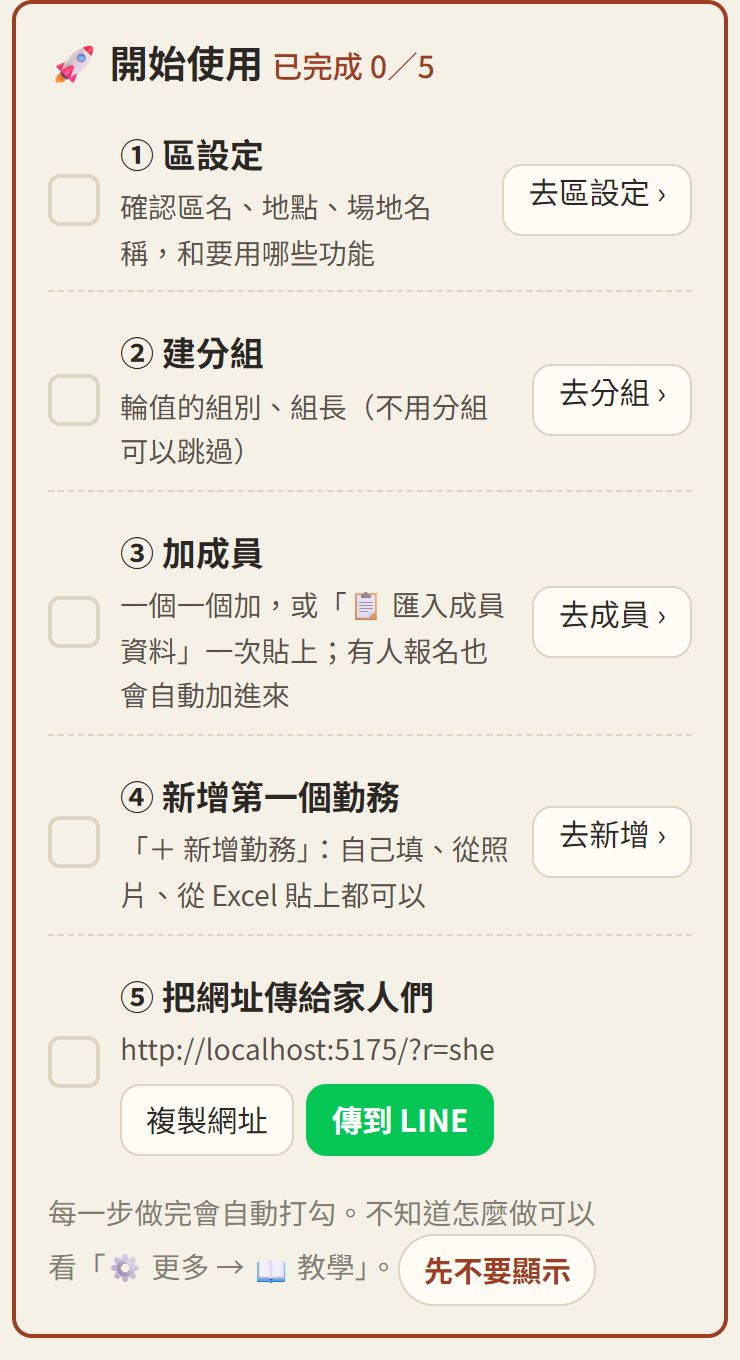
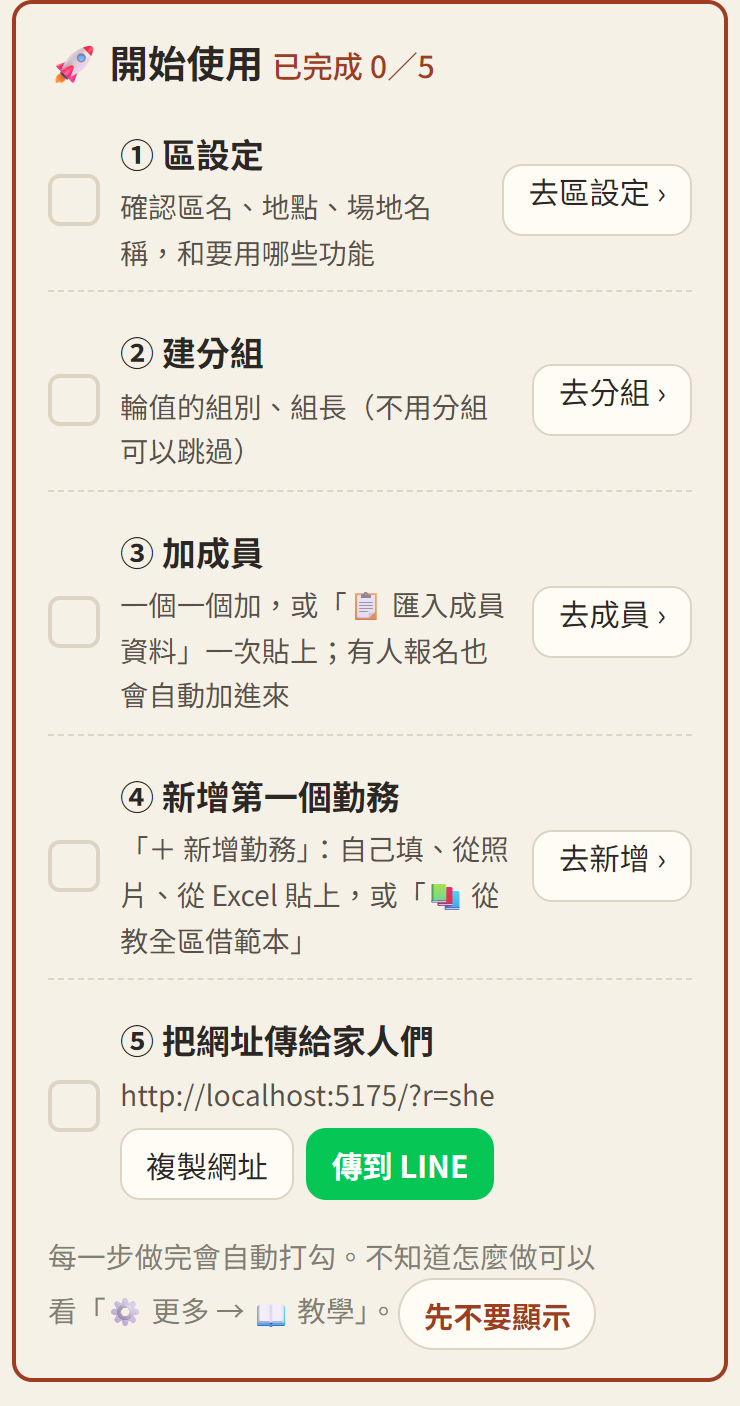
其他區新增勤務可以「從教全區借範本」

diff --git a/index.html b/index.html
@@ -23,7 +23,7 @@
   <link rel="preconnect" href="https://fonts.googleapis.com">
   <link rel="preconnect" href="https://fonts.gstatic.com" crossorigin>
   <link href="https://fonts.googleapis.com/css2?family=Noto+Sans+TC:wght@400;500;700&family=Noto+Serif+TC:wght@600;700&display=swap" rel="stylesheet">
-  <link rel="stylesheet" href="css/app.css?v=20261121p">
+  <link rel="stylesheet" href="css/app.css?v=20261121q">
   <script>try { var t = localStorage.getItem('duty-calendar:text-size'); if (t === 'l' || t === 'xl') document.documentElement.classList.add('text-' + t); } catch (e) {}</script>
 </head>
 <body class="splash-on">
@@ -118,63 +118,63 @@
   <script src="https://cdn.jsdelivr.net/npm/fullcalendar@6.1.21/index.global.min.js"></script>
   <script src="https://cdn.jsdelivr.net/npm/@fullcalendar/core@6.1.21/locales/zh-tw.global.min.js"></script>
   <!-- 改了 js、css 後把 ?v= 的日期換新，手機才不會用到舊的檔案（GitHub Pages 會快取 10 分鐘） -->
-  <script src="js/site.js?v=20261121p"></script>
-  <script src="js/region.js?v=20261121p"></script>
-  <script src="js/config.js?v=20261121p"></script>
-  <script src="js/api.js?v=20261121p"></script>
-  <script src="js/format.js?v=20261121p"></script>
-  <script src="js/lunar-util.js?v=20261121p"></script>
-  <script src="js/date-list.js?v=20261121p"></script>
-  <script src="js/share.js?v=20261121p"></script>
-  <script src="js/addcal.js?v=20261121p"></script>
-  <script src="js/duty-cache.js?v=20261121p"></script>
-  <script src="js/thanks-board.js?v=20261121p"></script>
-  <script src="js/calendar.js?v=20261121p"></script>
-  <script src="js/confirm.js?v=20261121p"></script>
-  <script src="js/reschedule.js?v=20261121p"></script>
-  <script src="js/signup.js?v=20261121p"></script>
-  <script src="js/duty-images.js?v=20261121p"></script>
-  <script src="js/roster-grid.js?v=20261121p"></script>
-  <script src="js/grid-page.js?v=20261121p"></script>
-  <script src="js/grid-image.js?v=20261121p"></script>
-  <script src="js/thanks-image.js?v=20261121p"></script>
-  <script src="js/celebrate.js?v=20261121p"></script>
-  <script src="js/duty.js?v=20261121p"></script>
-  <script src="js/mine.js?v=20261121p"></script>
-  <script src="js/venue-hours.js?v=20261121p"></script>
-  <script src="js/venue.js?v=20261121p"></script>
-  <script src="js/push.js?v=20261121p"></script>
-  <script src="js/admin.js?v=20261121p"></script>
-  <script src="js/admin-pages.js?v=20261121p"></script>
-  <script src="js/draft-editor.js?v=20261121p"></script>
-  <script src="js/group-fair.js?v=20261121p"></script>
-  <script src="js/admin-duties.js?v=20261121p"></script>
-  <script src="js/admin-accounts.js?v=20261121p"></script>
-  <script src="js/admin-site.js?v=20261121p"></script>
-  <script src="js/region-setup.js?v=20261121p"></script>
-  <script src="js/import-parse.js?v=20261121p"></script>
-  <script src="js/admin-import.js?v=20261121p"></script>
-  <script src="js/admin-people.js?v=20261121p"></script>
-  <script src="js/stats-calc.js?v=20261121p"></script>
-  <script src="js/edu-stats.js?v=20261121p"></script>
-  <script src="js/admin-goals.js?v=20261121p"></script>
-  <script src="js/admin-venue.js?v=20261121p"></script>
-  <script src="js/admin-push.js?v=20261121p"></script>
-  <script src="js/tutorial.js?v=20261121p"></script>
-  <script src="js/help.js?v=20261121p"></script>
-  <script src="js/rollcall.js?v=20261121p"></script>
-  <script src="js/stats-export.js?v=20261121p"></script>
-  <script src="js/repair.js?v=20261121p"></script>
-  <script src="js/activity-report.js?v=20261121p"></script>
-  <script src="js/member-stats.js?v=20261121p"></script>
-  <script src="js/admin-stats.js?v=20261121p"></script>
-  <script src="js/admin-report.js?v=20261121p"></script>
-  <script src="js/admin-recent-signups.js?v=20261121p"></script>
-  <script src="js/admin-notice.js?v=20261121p"></script>
-  <script src="js/admin-notify.js?v=20261121p"></script>
-  <script src="js/history-parse.js?v=20261121p"></script>
-  <script src="js/admin-history.js?v=20261121p"></script>
-  <script src="js/easy-mode.js?v=20261121p"></script>
-  <script src="js/app.js?v=20261121p"></script>
+  <script src="js/site.js?v=20261121q"></script>
+  <script src="js/region.js?v=20261121q"></script>
+  <script src="js/config.js?v=20261121q"></script>
+  <script src="js/api.js?v=20261121q"></script>
+  <script src="js/format.js?v=20261121q"></script>
+  <script src="js/lunar-util.js?v=20261121q"></script>
+  <script src="js/date-list.js?v=20261121q"></script>
+  <script src="js/share.js?v=20261121q"></script>
+  <script src="js/addcal.js?v=20261121q"></script>
+  <script src="js/duty-cache.js?v=20261121q"></script>
+  <script src="js/thanks-board.js?v=20261121q"></script>
+  <script src="js/calendar.js?v=20261121q"></script>
+  <script src="js/confirm.js?v=20261121q"></script>
+  <script src="js/reschedule.js?v=20261121q"></script>
+  <script src="js/signup.js?v=20261121q"></script>
+  <script src="js/duty-images.js?v=20261121q"></script>
+  <script src="js/roster-grid.js?v=20261121q"></script>
+  <script src="js/grid-page.js?v=20261121q"></script>
+  <script src="js/grid-image.js?v=20261121q"></script>
+  <script src="js/thanks-image.js?v=20261121q"></script>
+  <script src="js/celebrate.js?v=20261121q"></script>
+  <script src="js/duty.js?v=20261121q"></script>
+  <script src="js/mine.js?v=20261121q"></script>
+  <script src="js/venue-hours.js?v=20261121q"></script>
+  <script src="js/venue.js?v=20261121q"></script>
+  <script src="js/push.js?v=20261121q"></script>
+  <script src="js/admin.js?v=20261121q"></script>
+  <script src="js/admin-pages.js?v=20261121q"></script>
+  <script src="js/draft-editor.js?v=20261121q"></script>
+  <script src="js/group-fair.js?v=20261121q"></script>
+  <script src="js/admin-duties.js?v=20261121q"></script>
+  <script src="js/admin-accounts.js?v=20261121q"></script>
+  <script src="js/admin-site.js?v=20261121q"></script>
+  <script src="js/region-setup.js?v=20261121q"></script>
+  <script src="js/import-parse.js?v=20261121q"></script>
+  <script src="js/admin-import.js?v=20261121q"></script>
+  <script src="js/admin-people.js?v=20261121q"></script>
+  <script src="js/stats-calc.js?v=20261121q"></script>
+  <script src="js/edu-stats.js?v=20261121q"></script>
+  <script src="js/admin-goals.js?v=20261121q"></script>
+  <script src="js/admin-venue.js?v=20261121q"></script>
+  <script src="js/admin-push.js?v=20261121q"></script>
+  <script src="js/tutorial.js?v=20261121q"></script>
+  <script src="js/help.js?v=20261121q"></script>
+  <script src="js/rollcall.js?v=20261121q"></script>
+  <script src="js/stats-export.js?v=20261121q"></script>
+  <script src="js/repair.js?v=20261121q"></script>
+  <script src="js/activity-report.js?v=20261121q"></script>
+  <script src="js/member-stats.js?v=20261121q"></script>
+  <script src="js/admin-stats.js?v=20261121q"></script>
+  <script src="js/admin-report.js?v=20261121q"></script>
+  <script src="js/admin-recent-signups.js?v=20261121q"></script>
+  <script src="js/admin-notice.js?v=20261121q"></script>
+  <script src="js/admin-notify.js?v=20261121q"></script>
+  <script src="js/history-parse.js?v=20261121q"></script>
+  <script src="js/admin-history.js?v=20261121q"></script>
+  <script src="js/easy-mode.js?v=20261121q"></script>
+  <script src="js/app.js?v=20261121q"></script>
 </body>
 </html>

diff --git a/js/admin-duties.js b/js/admin-duties.js
@@ -450,10 +450,13 @@
           <a class="more-item" href="#/admin/duties/new" data-way><strong>✍ 自己填</strong><span>一筆一筆填表單（也可以一次建好幾天、農曆規則）</span></a>
           <button type="button" class="more-item" data-way-photo><strong>📷 從照片</strong><span>拍公告、DM 或行事曆，自動整理成草稿再確認</span></button>
           <a class="more-item" href="#/admin/import" data-way><strong>📋 從 Excel 貼上</strong><span>從 Excel／Google 試算表複製好幾列貼上，一次匯入</span></a>
+          ${window.Region && Region.code ? '<button type="button" class="more-item" data-way-tpl><strong>📚 從教全區借範本</strong><span>教全區常用的勤務（時間、說明、了愿項目、名額），選一個帶入再改</span></button>' : ''}
         </div>
         <div class="modal-actions"><button type="button" class="btn btn-block" data-close>返回</button></div>`);
       m.el.querySelectorAll('[data-way]').forEach((a) => a.addEventListener('click', () => m.close()));
       m.el.querySelector('[data-way-photo]').addEventListener('click', () => { m.close(); openDraft(); });
+      const tplBtn = m.el.querySelector('[data-way-tpl]');
+      if (tplBtn) tplBtn.addEventListener('click', () => { m.close(); openTemplates(); });
       m.el.querySelector('[data-close]').addEventListener('click', () => m.close());
     });
     const ai = body.querySelector('[data-att-import]');
@@ -518,6 +521,47 @@
     });
   }
 
+  // ---------- 📚 從教全區借範本（其他區，2026/11/21） ----------
+
+  let pendingTemplate = null; // 選好的範本，下一次打開「新增」表單時帶入
+
+  async function openTemplates() {
+    const m = Modal.open(`
+      <h2 class="modal-title">📚 從教全區借範本</h2>
+      <p class="hint">教全區近兩年常辦的勤務、活動。選一個，會帶入時間、地點、服裝、說明、了愿項目和名額，日期、負責組自己填，其他也可以改。</p>
+      <div data-tpl-body><p class="muted">讀取中⋯</p></div>
+      <div class="modal-actions"><button type="button" class="btn btn-block" data-close>返回</button></div>`);
+    m.el.querySelector('[data-close]').addEventListener('click', () => m.close());
+    const box = m.el.querySelector('[data-tpl-body]');
+    let list;
+    try { list = await Api.mainTemplates(); } catch (e) {
+      box.innerHTML = `<p class="form-error">${esc(e.message || '讀不到範本，請稍後再試')}</p>`;
+      return;
+    }
+    const cats = ['勤務', '道務', '教育'].filter((c) => list.some((t) => (t.category || '勤務') === c));
+    let cat = cats[0] || '勤務';
+    let q = '';
+    const draw = () => {
+      const rows = list.filter((t) => (t.category || '勤務') === cat && (!q || t.name.indexOf(q) !== -1));
+      box.innerHTML = `
+        ${cats.length > 1 ? `<div class="seg" role="radiogroup" aria-label="類別">${cats.map((c) => `<label class="seg-item"><input type="radio" name="tplCat" value="${c}"${c === cat ? ' checked' : ''}><span>${esc(Fmt.catLabel(c))}</span></label>`).join('')}</div>` : ''}
+        <input class="input tidy-q" type="search" data-tpl-q placeholder="搜尋（例：打掃、法會）" value="${esc(q)}">
+        <div class="tpl-list">${rows.map((t) => `<button type="button" class="more-item" data-tpl="${list.indexOf(t)}">
+          <strong>${esc(t.name)}</strong>
+          <span>${esc([t.startTime ? t.startTime + (t.endTime ? '–' + t.endTime : '') : '', t.location, (t.positions || []).map((p) => p.name).filter(Boolean).join('、')].filter(Boolean).join('・'))}</span>
+          <span class="muted">辦過 ${t.count} 次</span></button>`).join('') || '<p class="panel-empty">沒有符合的</p>'}</div>`;
+      box.querySelectorAll('input[name="tplCat"]').forEach((r) => r.addEventListener('change', () => { cat = r.value; draw(); }));
+      const qi = box.querySelector('[data-tpl-q]');
+      qi.addEventListener('input', () => { q = qi.value.trim(); const p = qi.selectionStart; draw(); const q2 = box.querySelector('[data-tpl-q]'); q2.focus(); q2.setSelectionRange(p, p); });
+      box.querySelectorAll('[data-tpl]').forEach((b) => b.addEventListener('click', () => {
+        pendingTemplate = list[Number(b.dataset.tpl)];
+        m.close();
+        location.hash = '#/admin/duties/new?tpl=' + Date.now(); // 每次都重新打開新增表單
+      }));
+    };
+    draw();
+  }
+
   // ---------- 表單 ----------
 
   /**
@@ -549,7 +593,9 @@
       return;
     }
     if (form.token !== t) return;
-    DutyForm(body, { editing: !!opts.id, source, groups, duties, guard });
+    const template = !opts.id && !opts.fromId ? pendingTemplate : null;
+    pendingTemplate = null;
+    DutyForm(body, { editing: !!opts.id, source, groups, duties, guard, template });
   }
 
   const CATEGORIES = ['勤務', '道務', '教育'];
@@ -587,6 +633,14 @@
       s.batches = [];
     }
     s.batches = Array.isArray(s.batches) ? s.batches.slice() : [];
+    // 從教全區借的範本：帶入名稱、時間、地點、說明、了愿項目⋯（日期、負責組自己填）
+    if (ctx.template) {
+      const tp = JSON.parse(JSON.stringify(ctx.template));
+      delete tp.count;
+      Object.assign(s, tp);
+      if (CATEGORIES.indexOf(s.category) === -1 || (Api.adminWho().role !== '總管理者' && s.category !== myCategory())) s.category = myCategory();
+      s.positions = (tp.positions && tp.positions.length) ? tp.positions : emptyDuty().positions;
+    }
     const st = {
       dateType: s.start && s.end && s.start !== s.end ? 'range' : 'single',
       lunar: { from: '', to: '', first: true, fifteenth: true, leap: true, prefix: true, groupMode: 'fixed', rotation: [], rotationStart: 0 },
@@ -661,6 +715,7 @@
       return hits.filter((d) => d.name.length === best).sort((a, b) => (b.start || '').localeCompare(a.start || ''))[0];
     }
     const FILL_SKIP = ['id', 'name', 'start', 'end', 'batches'];
+    if (ctx.template) st.fillNote = `<div class="notice notice-success fill-note"><p>✅ 已帶入教全區的範本「${esc(ctx.template.name)}」：時間、地點、服裝、說明、了愿項目和名額。<strong>日期、負責組請自己填</strong>，地點、說明也請確認是不是你們區的。</p></div>`;
     // 除了名稱、日期，其他欄位都還沒動過
     function untouched() {
       const e = emptyDuty();

diff --git a/tools/help-shots.js b/tools/help-shots.js
@@ -253,7 +253,7 @@ const SHOTS = [
 
 // ---------- 分區：開通頁、⚙ 區設定（只有其他區有） ----------
 // 測試版的教捨區（she）已開通、密碼 test-pass；開通頁用測試版的開通工具（金鑰 test-key）幫教發區（fa）拿一個開通連結。
-const REGION_SHOTS = ['adm-setup', 'adm-site', 'adm-site-features', 'adm-onboarding'];
+const REGION_SHOTS = ['adm-setup', 'adm-site', 'adm-site-features', 'adm-onboarding', 'adm-templates'];
 async function regionShots(c, only) {
   const want = (n) => !only.length || only.indexOf(n) !== -1;
   if (!REGION_SHOTS.some(want)) return;
@@ -265,13 +265,19 @@ async function regionShots(c, only) {
     await shot(c, path.join(OUT, 'adm-setup.png'), PREP + `return __box('#view-setup .admin-login', 6);`);
     console.log('✓ adm-setup');
   }
-  if (!want('adm-site') && !want('adm-site-features') && !want('adm-onboarding')) return;
+  if (!want('adm-site') && !want('adm-site-features') && !want('adm-onboarding') && !want('adm-templates')) return;
   await go(BASE + 'she/#/admin');
   await run(c, PREP + `const pw = document.querySelector('#admin-password'); if (pw) { pw.value = 'test-pass'; pw.form.requestSubmit(); await __wait(2500); }`);
   if (want('adm-onboarding')) {
     await run(c, PREP + `location.hash = '#/admin/more'; await __wait(300); location.hash = '#/admin'; for (let i = 0; i < 30 && !document.querySelector('.onboard'); i++) await __wait(300); await __wait(300);`);
     await shot(c, path.join(OUT, 'adm-onboarding.png'), PREP + `return __box('.onboard', 6);`);
     console.log('✓ adm-onboarding');
+  }
+  if (want('adm-templates')) {
+    await run(c, PREP + `location.hash = '#/admin/duties'; for (let i = 0; i < 30 && !document.querySelector('[data-add-open]'); i++) await __wait(300); document.querySelector('[data-add-open]').click(); await __wait(400); document.querySelector('[data-way-tpl]').click(); for (let i = 0; i < 30 && !document.querySelector('[data-tpl]'); i++) await __wait(300); await __wait(300);`);
+    await shot(c, path.join(OUT, 'adm-templates.png'), PREP + `return __box('.modal-box', 4);`);
+    console.log('✓ adm-templates');
+    await run(c, PREP + `document.querySelector('[data-tpl]').click(); for (let i = 0; i < 30 && !document.querySelector('.fill-note'); i++) await __wait(300); window.__tplInfo = [document.querySelector('[name=name]').value, document.querySelector('[name=startTime]').value, document.querySelector('[name=location]').value].join(' / '); if (!document.querySelector('.fill-note')) throw new Error('範本沒有帶入'); console.log(window.__tplInfo);`);
   }
   if (!want('adm-site') && !want('adm-site-features')) return;
   await run(c, PREP + `

diff --git a/tests/templates.test.js b/tests/templates.test.js
@@ -1,0 +1,28 @@
+// 📚 從教全區借範本（2026/11/21）：公開的範本清單只列用過 2 次以上的；農曆日期拿掉算同一種；不給負責組、人名、DM。
+const test = require('node:test');
+const assert = require('node:assert/strict');
+const { createEnv } = require('./env');
+
+test('範本：用過 2 次以上才列；同一種取最近一筆；拜香輪值的月份拿掉；不給負責組、講師', () => {
+  const env = createEnv(Date.UTC(2026, 9, 1, 2, 0, 0));
+  const token = env.post({ action: 'adminLogin', password: 'test-pass' }).data.token;
+  const mk = (d) => {
+    const r = env.post({ action: 'adminCreateDuties', token, duties: [Object.assign({ category: '勤務', positions: [{ name: '打掃', max: 4 }] }, d)] });
+    assert.equal(r.ok, true, JSON.stringify(r.error));
+  };
+  mk({ name: '測試打掃', start: '2026-10-03', startTime: '08:00', location: '甲地' });
+  mk({ name: '測試打掃', start: '2026-11-07', startTime: '09:00', location: '乙地', groupType: '勤務了愿組', group: '第1組' });
+  mk({ name: '測試壇主天道加披', start: '2026-10-10' });
+  mk({ name: '九月初一測試拜香', start: '2026-10-10', mode: '公告型' });
+  mk({ name: '十月初一測試拜香', start: '2026-11-09', mode: '公告型' });
+  const list = env.get({ action: 'templates' }).data.templates;
+  const t = list.find((x) => x.name === '測試打掃');
+  assert.ok(t);
+  assert.equal(t.count, 2);
+  assert.equal(t.startTime, '09:00', '取最近一筆');
+  assert.equal(t.location, '乙地');
+  assert.deepEqual(t.positions.map((p) => [p.name, String(p.max)]), [['打掃', '4']]);
+  for (const k of ['group', 'groupType', 'lecturers', 'leaders', 'teachers', 'dm', 'start', 'id']) assert.equal(t[k], undefined, k);
+  assert.ok(!list.some((x) => /加披/.test(x.name)), '只用過一次的不列');
+  assert.equal(list.find((x) => x.name === '測試拜香').count, 2);
+});

diff --git a/js/admin.js b/js/admin.js
@@ -318,7 +318,7 @@
         [o.siteSaved, '① 區設定', '確認區名、地點、場地名稱，和要用哪些功能', '#/admin/site', '去區設定'],
         [o.groups > 0, '② 建分組', '輪值的組別、組長（不用分組可以跳過）', '#/admin/groups', '去分組'],
         [o.members > 0, '③ 加成員', '一個一個加，或「📋 匯入成員資料」一次貼上；有人報名也會自動加進來', '#/admin/members', '去成員'],
-        [o.duties > 0, '④ 新增第一個勤務', '「＋ 新增勤務」：自己填、從照片、從 Excel 貼上都可以', '#/admin/duties/new', '去新增'],
+        [o.duties > 0, '④ 新增第一個勤務', '「＋ 新增勤務」：自己填、從照片、從 Excel 貼上，或「📚 從教全區借範本」', '#/admin/duties/new', '去新增'],
         [o.shared, '⑤ 把網址傳給家人們', url, '', '']
       ];
       const done = steps.filter((x) => x[0]).length;

diff --git a/js/api.js b/js/api.js
@@ -214,6 +214,9 @@
     getFaq: () => get('getFaq', {}),
     // 分區：開通連結（js/region-setup.js）
     regionSetupCheck: (token) => post({ action: 'regionSetupCheck', token }),
+    // 其他區「📚 從教全區借範本」：直接問教全區（不帶 region）
+    mainTemplates: () => fetch(window.APP_CONFIG.API_URL + (window.APP_CONFIG.API_URL.indexOf('?') === -1 ? '?' : '&') + 'action=templates')
+      .then((r) => r.json()).then((j) => { if (!j.ok) throw new Error((j.error && j.error.message) || '讀不到範本'); return j.data.templates; }),
     regionSetup: (token, password) => post({ action: 'regionSetup', token, password }),
     getThanks: () => get('thanks', {}), // 感謝排行榜（近三個月了愿次數）
     getRepairs: () => get('getRepairs', {}),

diff --git a/docs/spec.md b/docs/spec.md
@@ -500,3 +500,4 @@
 - **時間可以打字（2026/11/21）**：勤務表單、從照片新增的草稿的開始／結束時間改成文字欄（數字鍵盤），可以打 0830、930、2145、8:30、8點半、下午9點半等，離開欄位自動換成 HH:MM（Fmt.parseTime）；也可以從清單選（06:00～23:00 每半小時）。看不懂的欄位變紅並提醒；送出時伺服器照舊檢查格式。
 - **新增時自動帶入（2026/11/21）**：新增勤務（自己填）的名稱欄可以從以前的名稱清單選；離開名稱欄時，找名稱相同、或打的名稱開頭是以前名稱的勤務（名稱最像的那一種、最近一筆），讀 adminDutyForEdit 帶入名稱、日期以外的所有欄位（時段、地點、服裝、說明、負責組、了愿項目、名額、DM⋯；了愿項目當作新的）。只有名稱、日期以外都還沒填時才直接帶入，並顯示「✅ 已帶入最近一筆⋯」和「不要帶入（清掉）」；已經填了別的欄位就先問「要帶入嗎？」。
 - **新區「🚀 開始使用」（2026/11/21）**：其他區的總管理者在後台首頁（近期勤務）最上面看到五步：① 區設定（存過一次就算，SITE_SAVED）② 建分組（有分組）③ 加成員（有啟用中的成員）④ 新增第一個勤務（有勤務）⑤ 把網址傳給家人們（按「複製網址」或「傳到 LINE」就算，ONBOARD_SHARED）。做完的打勾、劃掉；全部做完或按「先不要顯示」（ONBOARD_HIDE）就不出現。教全區沒有。API（worker/src/app.js，只有其他區的總管理者）：adminOnboarding、adminOnboardingMark { key: shared|hide, on }。常見問題「剛開通，要從哪裡開始？」（regionOnly）。
+- **📚 從教全區借範本（2026/11/21，其他區）**：「＋ 新增勤務」多一個選項，讀教全區公開的範本清單（GET action=templates，不帶 region；DutyAdmin.gs dutyTemplates_）：近兩年用過 2 次以上的勤務（只用過一次的不列，例：個人的天道加披），名稱前面的農曆日期拿掉後同一種算一起、取最近一筆，依次數排、最多 200 筆。只給公開的欄位：名稱、類別、性質、模式、時間、地點、服裝、說明、可兼任、版面、階段、組長職稱、登記張數／面額、報名選佛堂、共需人數、了愿項目（名稱、時段、最少、最多）；不給負責組、講師帶班師資等人名、DM、日期。選了打開新增表單帶入（類別帳號的類別固定自己的），上方提醒「日期、負責組自己填，地點、說明請確認」。
